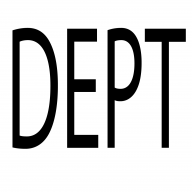
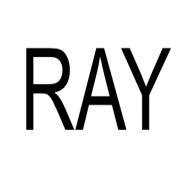
update

Changed region(s): [[0.0625, 0.125, 0.9688, 0.7812]]

diff --git a/public/sw.js b/public/sw.js
@@ -1,5 +1,5 @@
-const staticCache = "static-site-v3";
-const dynamicCache = "dynamic-cache-v3";
+const staticCache = "static-site-v4";
+const dynamicCache = "dynamic-cache-v4";
 const assets = [
   "images/adidas.svg",
   "images/axe.svg",
@@ -14,7 +14,8 @@ const assets = [
   "images/up-arrow.svg",
   "/",
 ];
-self.addEventListener("install", (event) => {
+
+window.self.addEventListener("install", (event) => {
   console.log("service worker installed");
   event.waitUntil(
     caches.open(staticCache).then((cache) => {
@@ -24,21 +25,23 @@ self.addEventListener("install", (event) => {
   );
 });
 
-self.addEventListener("activate", (event) => {
-  // console.log('service worker activated')
+window.self.addEventListener("activate", (event) => {
+  console.log("service worker activated");
   event.waitUntil(
     caches.keys().then((keys) => {
       return Promise.all(
         keys
           .filter((key) => key !== staticCache && key !== dynamicCache)
-          .map((key) => caches.delete(key))
+          .map((key) => {
+            console.log("clearing old cache");
+            return caches.delete(key);
+          })
       );
     })
   );
 });
 
-self.addEventListener("fetch", (event) => {
-  // console.log("service worker fetch", event.request.url);
+window.self.addEventListener("fetch", (event) => {
   if (!(event.request.url.indexOf("http") === 0)) return;
   event.respondWith(
     caches.match(event.request).then((cacheRes) => {

diff --git a/src/components/Overlay/Overlay.js b/src/components/Overlay/Overlay.js
@@ -18,31 +18,31 @@ const Module = (props) => {
         <article>
           <ul>
             <li>
-              <a href="https://www.deptagency.com/nl-nl/">HOME</a>
+              <a href="/">HOME</a>
             </li>
             <li>
-              <a href="https://www.deptagency.com/nl-nl/">WORK</a>
+              <a href="/">WORK</a>
             </li>
             <li>
-              <a href="https://www.deptagency.com/nl-nl/">ABOUT</a>
+              <a href="/">ABOUT</a>
             </li>
             <li>
-              <a href="https://www.deptagency.com/nl-nl/">SERVICES</a>
+              <a href="/">SERVICES</a>
             </li>
             <li>
-              <a href="https://www.deptagency.com/nl-nl/">PARTNERS</a>
+              <a href="/">PARTNERS</a>
             </li>
             <li>
-              <a href="https://www.deptagency.com/nl-nl/">STORIES</a>
+              <a href="/">STORIES</a>
             </li>
             <li>
-              <a href="https://www.deptagency.com/nl-nl/">VACANCIES</a>
+              <a href="/">VACANCIES</a>
             </li>
             <li>
-              <a href="https://www.deptagency.com/nl-nl/">EVENTS</a>
+              <a href="/">EVENTS</a>
             </li>
             <li>
-              <a href="https://www.deptagency.com/nl-nl/">CONTACT</a>
+              <a href="/">CONTACT</a>
             </li>
           </ul>
         </article>

diff --git a/src/components/Footer/Footer.js b/src/components/Footer/Footer.js
@@ -12,7 +12,7 @@ const Footer = () => {
       <div className={styles.container}>
         <div className={styles.wrapper}>
           <article>
-            <h1>DEPT</h1>
+            <h1>RAY</h1>
             <ul>
               <li>WORK</li>
               <li>SERVICES</li>
@@ -35,11 +35,9 @@ const Footer = () => {
           </article>
           <article>
             <ul>
-              <li>Chamber of Commerce: 6346101</li>
-              <li>VAT: NL 8552.47.501.B01</li>
               <li>Term and conditions</li>
             </ul>
-            <p>2018 Dept Agency</p>
+            <p>2022 Ray Productions</p>
           </article>
         </div>
         <button onClick={scrollTop}>

diff --git a/src/components/Banner/Banner.module.scss b/src/components/Banner/Banner.module.scss
@@ -8,7 +8,7 @@ body {
   margin: 1em auto;
   background-size: cover;
   font-family: "Teko", sans-serif;
-  background-image: url(../gal.jpg);
+  background-image: url(../space.jpg);
 }
 .container article {
   display: grid;
@@ -27,7 +27,8 @@ body {
 .container article h1 {
   margin: auto 0;
   letter-spacing: 3px;
-  font-size: 20vw;
+  font-size: 15vw;
+  color: whitesmoke;
   padding-left: 0.05em;
   font-weight: 500;
 }
@@ -58,7 +59,7 @@ body {
     width: 100%;
   }
   .container article {
-    background-image: url(../gal.jpg);
+    background-image: url(../space.jpg);
     background-size: cover;
   }
 }

diff --git a/src/components/Banner/Banner.module.css b/src/components/Banner/Banner.module.css
@@ -9,7 +9,7 @@ body {
   margin: 1em auto;
   background-size: cover;
   font-family: "Teko", sans-serif;
-  background-image: url(../gal.jpg);
+  background-image: url(../space.jpg);
 }
 
 .container article {
@@ -37,7 +37,8 @@ body {
 .container article h1 {
   margin: auto 0;
   letter-spacing: 3px;
-  font-size: 20vw;
+  font-size: 15vw;
+  color: whitesmoke;
   padding-left: 0.05em;
   font-weight: 500;
 }
@@ -69,7 +70,7 @@ body {
     width: 100%;
   }
   .container article {
-    background-image: url(../gal.jpg);
+    background-image: url(../space.jpg);
     background-size: cover;
   }
 }

diff --git a/src/components/Filter/Filter.js b/src/components/Filter/Filter.js
@@ -10,7 +10,7 @@ const Filter = (props) => {
   };
   useEffect(() => {
     props.toggle(list);
-  }, [list]);
+  }, [list, props]);
 
   return (
     <div className={styles.filterContainer}>
@@ -18,7 +18,7 @@ const Filter = (props) => {
         <Btn>TOGGLE VIEW</Btn>
       </div>
       <div>
-        <label>Show me</label>
+        <p>Show me</p>
         <select value={props.selected} onChange={filterResponse}>
           <option value="all">all work</option>
           <option value="Culture">culture</option>

diff --git a/src/components/Header/Header.js b/src/components/Header/Header.js
@@ -38,8 +38,8 @@ const Header = () => {
     >
       <div className={styles.container}>
         <div className={wrapperClass.join(" ")}>
-          <a href="https://www.deptagency.com/nl-nl/">
-            <h1>DEPT</h1>
+          <a href="/">
+            <h1>RAY</h1>
           </a>
 
           <button

diff --git a/src/components/Overlay/Overlay.module.css b/src/components/Overlay/Overlay.module.css
@@ -52,12 +52,10 @@
   border-bottom: 2px rgba(143, 143, 143, 0.555) solid;
 }
 
-.wrapper article,
-.wrapper article a {
+.wrapper article {
   -ms-flex-item-align: center;
       -ms-grid-row-align: center;
       align-self: center;
-  width: 100%;
   text-align: right;
   font-size: 5.2vh;
 }

diff --git a/src/components/Overlay/Overlay.module.scss b/src/components/Overlay/Overlay.module.scss
@@ -39,10 +39,8 @@
 .wrapper article li {
   border-bottom: 2px rgba(143, 143, 143, 0.555) solid;
 }
-.wrapper article,
-.wrapper article a {
-  align-self: center;
-  width: 100%;
+.wrapper article {
+  align-self: center; 
   text-align: right;
   font-size: 5.2vh;
 }

diff --git a/src/components/Banner/Banner.js b/src/components/Banner/Banner.js
@@ -6,7 +6,7 @@ const Banner = () => {
   return (
     <section className={styles.container}>
       <article>
-        <h1>WORK</h1>
+        <h1>INNOVATE</h1>
       </article>
       <div>
         <Btn>VIEW CASE</Btn>

diff --git a/src/components/Filter/Filter.module.scss b/src/components/Filter/Filter.module.scss
@@ -10,7 +10,8 @@
 .filterContainer div {
   padding-right: 1em;
 }
-.filterContainer label {
+.filterContainer p { 
+  
   font-size: 1.5rem;
   color: rgb(197, 195, 195);
 }

diff --git a/src/components/Filter/Filter.module.css b/src/components/Filter/Filter.module.css
@@ -16,7 +16,7 @@
   padding-right: 1em;
 }
 
-.filterContainer label {
+.filterContainer p {
   font-size: 1.5rem;
   color: #c5c3c3;
 }
